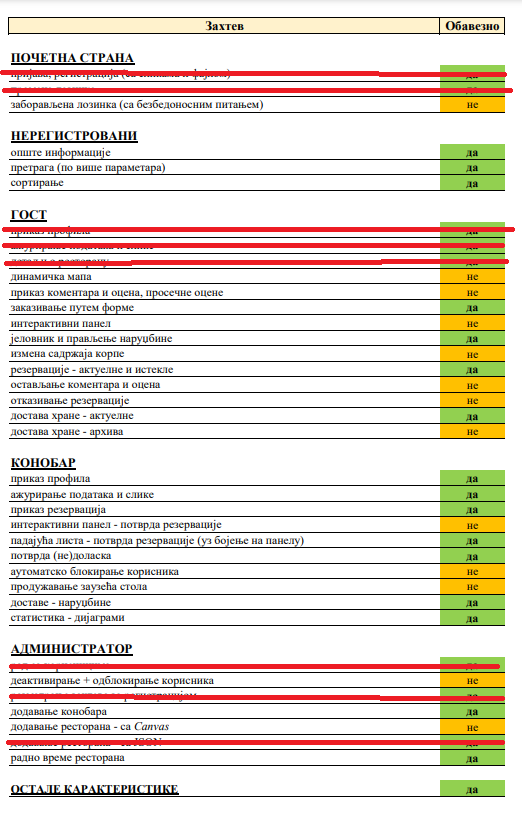
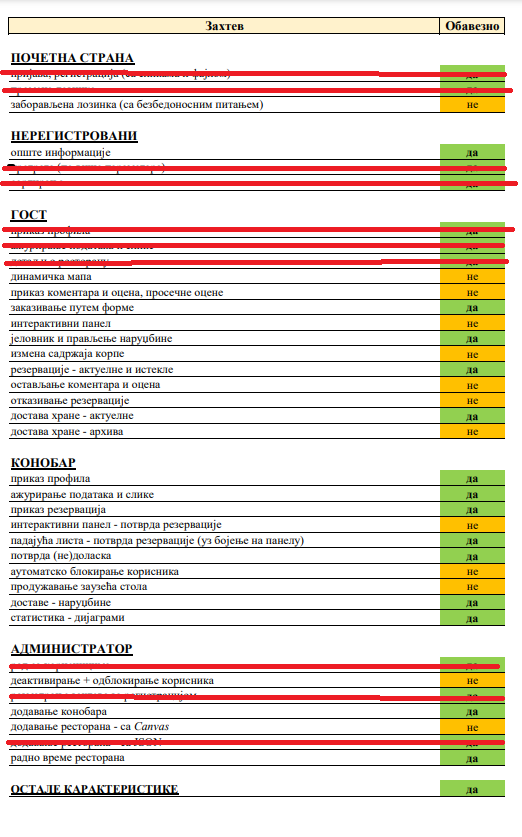
napravio pretrazivanje i sortiranje

Changed region(s): [[0.0, 0.1864, 0.9808, 0.2485]]

diff --git a/frontend/src/app/home/home.component.html b/frontend/src/app/home/home.component.html
@@ -4,8 +4,8 @@
         броју ресторана, <br> <b>DONE </b>укупном броју регистрованих гостију у систему,<br> број резервација у
         последњих 24 часа, <br>седам дана и <br>месец дана, и <br> <b>DONE</b>приказати листу ресторана са <br>листом
         тренутно ангажованих конобара (исписати само њихово име и презиме) у сваком од тих
-        ресторана. <br>Омогућити сортирање (и неопадајуће, и нерастуће) ресторана по свакој
-        колони (назив, адреса, тип ресторана) и<br> омогућити претраживање ресторана по имену,
+        ресторана. <br><b>DONE</b> Омогућити сортирање (и неопадајуће, и нерастуће) ресторана по свакој
+        колони (назив, адреса, тип ресторана) и<br><b>DONE</b> омогућити претраживање ресторана по имену,
         адреси и/или типу ресторана (не морају сва поља за претрагу бити попуњена). Типови
         ресторана могу бити кинески, индијски, јапански, домаћа кухиња и слично.
         </p>
@@ -18,18 +18,27 @@
               <table class="table table-striped">
                 <thead>
                   <tr>
-                    <th>Name</th>
-                    <th>Address</th>
-                    <th>Type</th>
-                    <th *ngIf="isLoggedIn()"></th>
+                    <th>
+                      <span (click)="sortData('name')">Name</span>
+                      <input type="text" class="form-control" [(ngModel)]="filterName" (input)="filterRestaurants()" placeholder="Search by name">
+                    </th>
+                    <th>
+                      <span (click)="sortData('address')">Address</span>
+                      <input type="text" class="form-control" [(ngModel)]="filterAddress" (input)="filterRestaurants()" placeholder="Search by address">
+                    </th>
+                    <th>
+                      <span (click)="sortData('type')">Type</span>
+                      <input type="text" class="form-control" [(ngModel)]="filterType" (input)="filterRestaurants()" placeholder="Search by type">
+                    </th>
+                    <th></th>
                   </tr>
                 </thead>
                 <tbody>
-                  <tr *ngFor="let restaurant of restaurants">
+                  <tr *ngFor="let restaurant of filteredRestaurants">
                     <td>{{ restaurant.name }}</td>
                     <td>{{ restaurant.address }}</td>
                     <td>{{ restaurant.type }}</td>
-                    <td><a [routerLink]="['/show-restaurant', restaurant.name]">Detalji</a></td>
+                    <td *ngIf="isLoggedIn()"><a [routerLink]="['/show-restaurant', restaurant.name]">Detalji</a></td>
                   </tr>
                 </tbody>
               </table>

diff --git a/frontend/src/app/home/home.component.ts b/frontend/src/app/home/home.component.ts
@@ -12,6 +12,14 @@ export class HomeComponent implements OnInit {
   restaurantCount: number = 0; // Initialize with default value
   guestUsersCount: number = 0; // Initialize with default value
   restaurants: Restaurant[] = []; // Array to hold fetched restaurants
+  filteredRestaurants: Restaurant[] = [];
+
+  filterName: string = "";
+  filterType: string = "";
+  filterAddress: string = "";
+
+  sortColumn: string = '';
+  sortDirection: 'asc' | 'desc' = 'asc';
 
   constructor(
     private restaurantService: RestaurantService,
@@ -52,6 +60,7 @@ export class HomeComponent implements OnInit {
     this.restaurantService.getAllRestaurants().subscribe(
       (restaurants) => {
         this.restaurants = restaurants;
+        this.filteredRestaurants = restaurants;
         console.log('Fetched restaurants:', this.restaurants);
       },
       (error) => {
@@ -62,5 +71,40 @@ export class HomeComponent implements OnInit {
 
   isLoggedIn(): boolean {
     return this.userService.currentUserValue != null;
+  }
+
+  filterRestaurants() {
+    this.filteredRestaurants = this.restaurants.filter(restaurant => {
+      const matchesName = restaurant.name.toLowerCase().includes(this.filterName.toLowerCase());
+      const matchesAddress = restaurant.address.toLowerCase().includes(this.filterAddress.toLowerCase());
+      const matchesType = restaurant.type.toLowerCase().includes(this.filterType.toLowerCase());
+      return matchesName && matchesAddress && matchesType;
+    });
+  }
+
+  sortData(column: string): void {
+    if (this.sortColumn === column) {
+      this.sortDirection = this.sortDirection === 'asc' ? 'desc' : 'asc';
+    } else {
+      this.sortColumn = column;
+      this.sortDirection = 'asc';
+    }
+    this.sortRestaurants();
+  }
+
+  sortRestaurants(): void {
+    this.filteredRestaurants.sort((a, b) => {
+      const x = a as any;
+      const y = b as any;
+      const valueA = x[this.sortColumn].toLowerCase();
+      const valueB = y[this.sortColumn].toLowerCase();
+      if (valueA < valueB) {
+        return this.sortDirection === 'asc' ? -1 : 1;
+      }
+      if (valueA > valueB) {
+        return this.sortDirection === 'asc' ? 1 : -1;
+      }
+      return 0;
+    });
   }
 }
